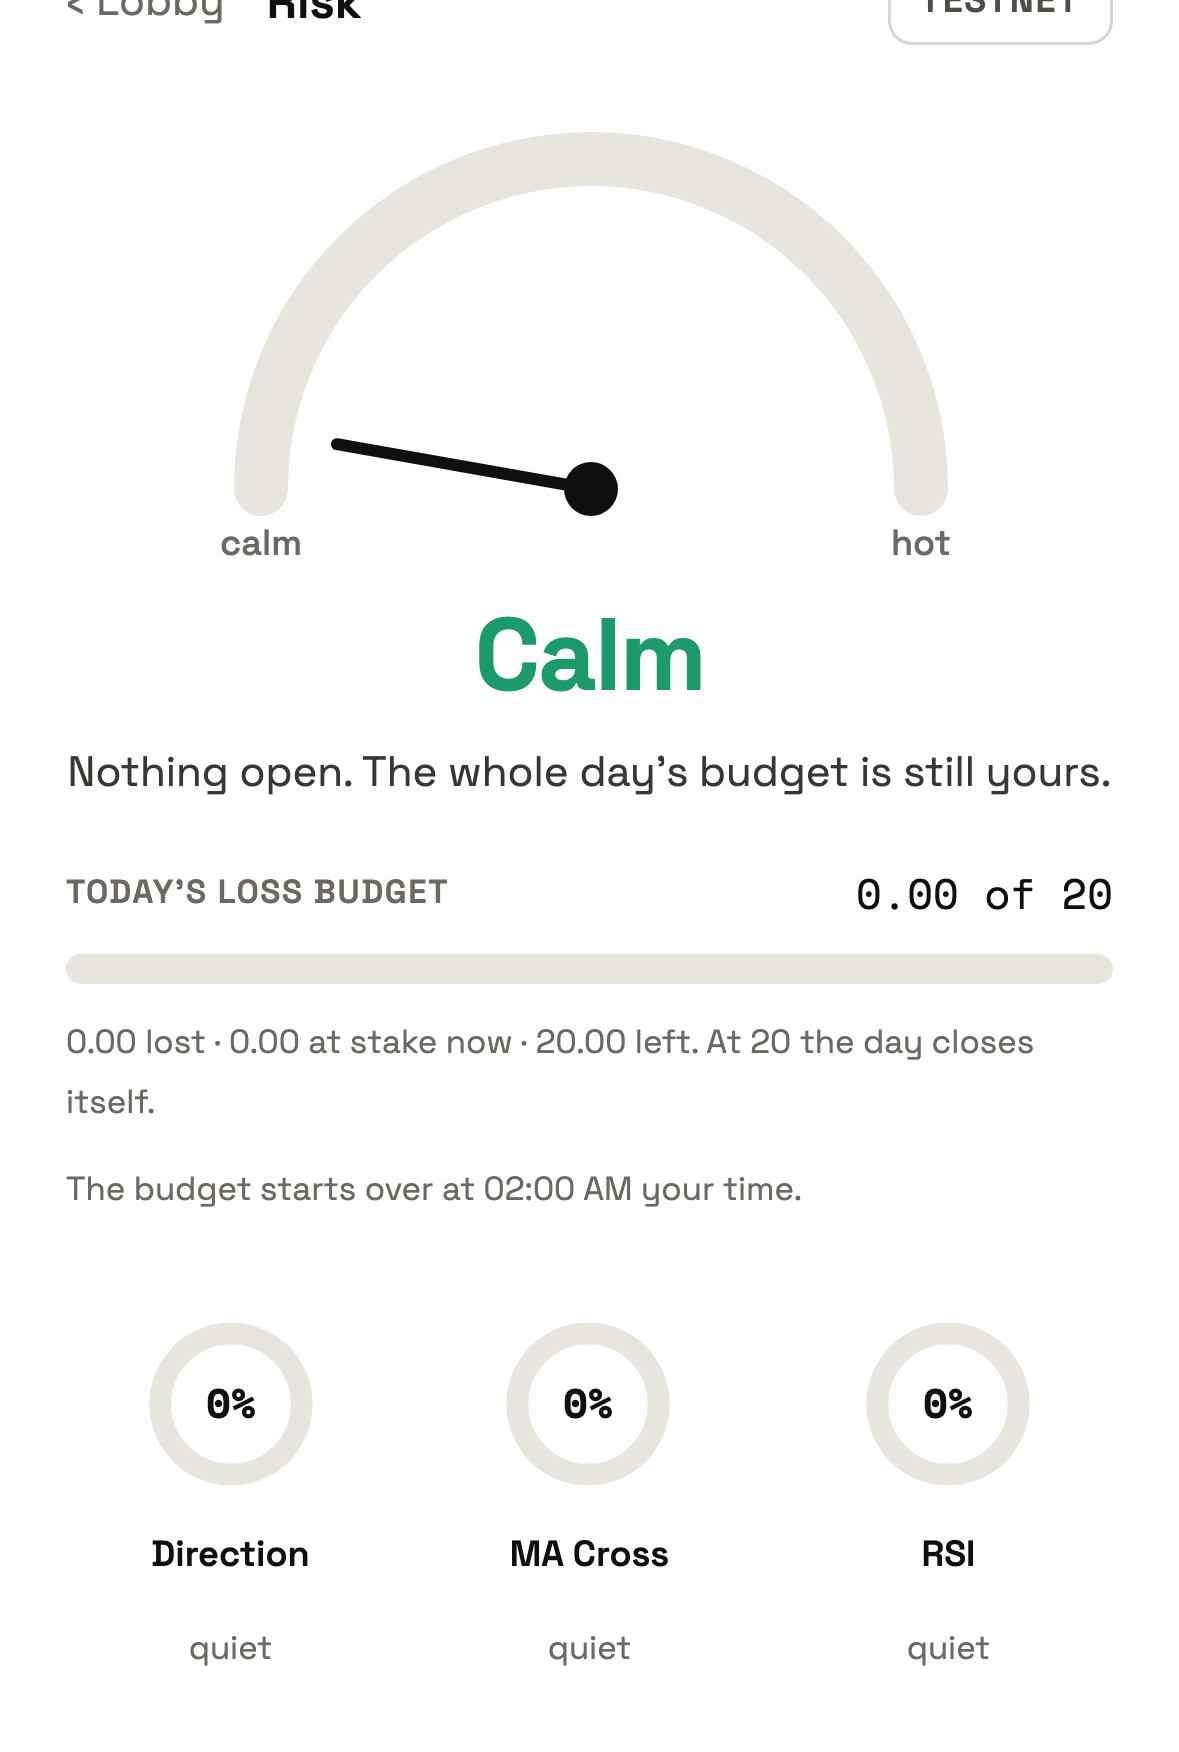
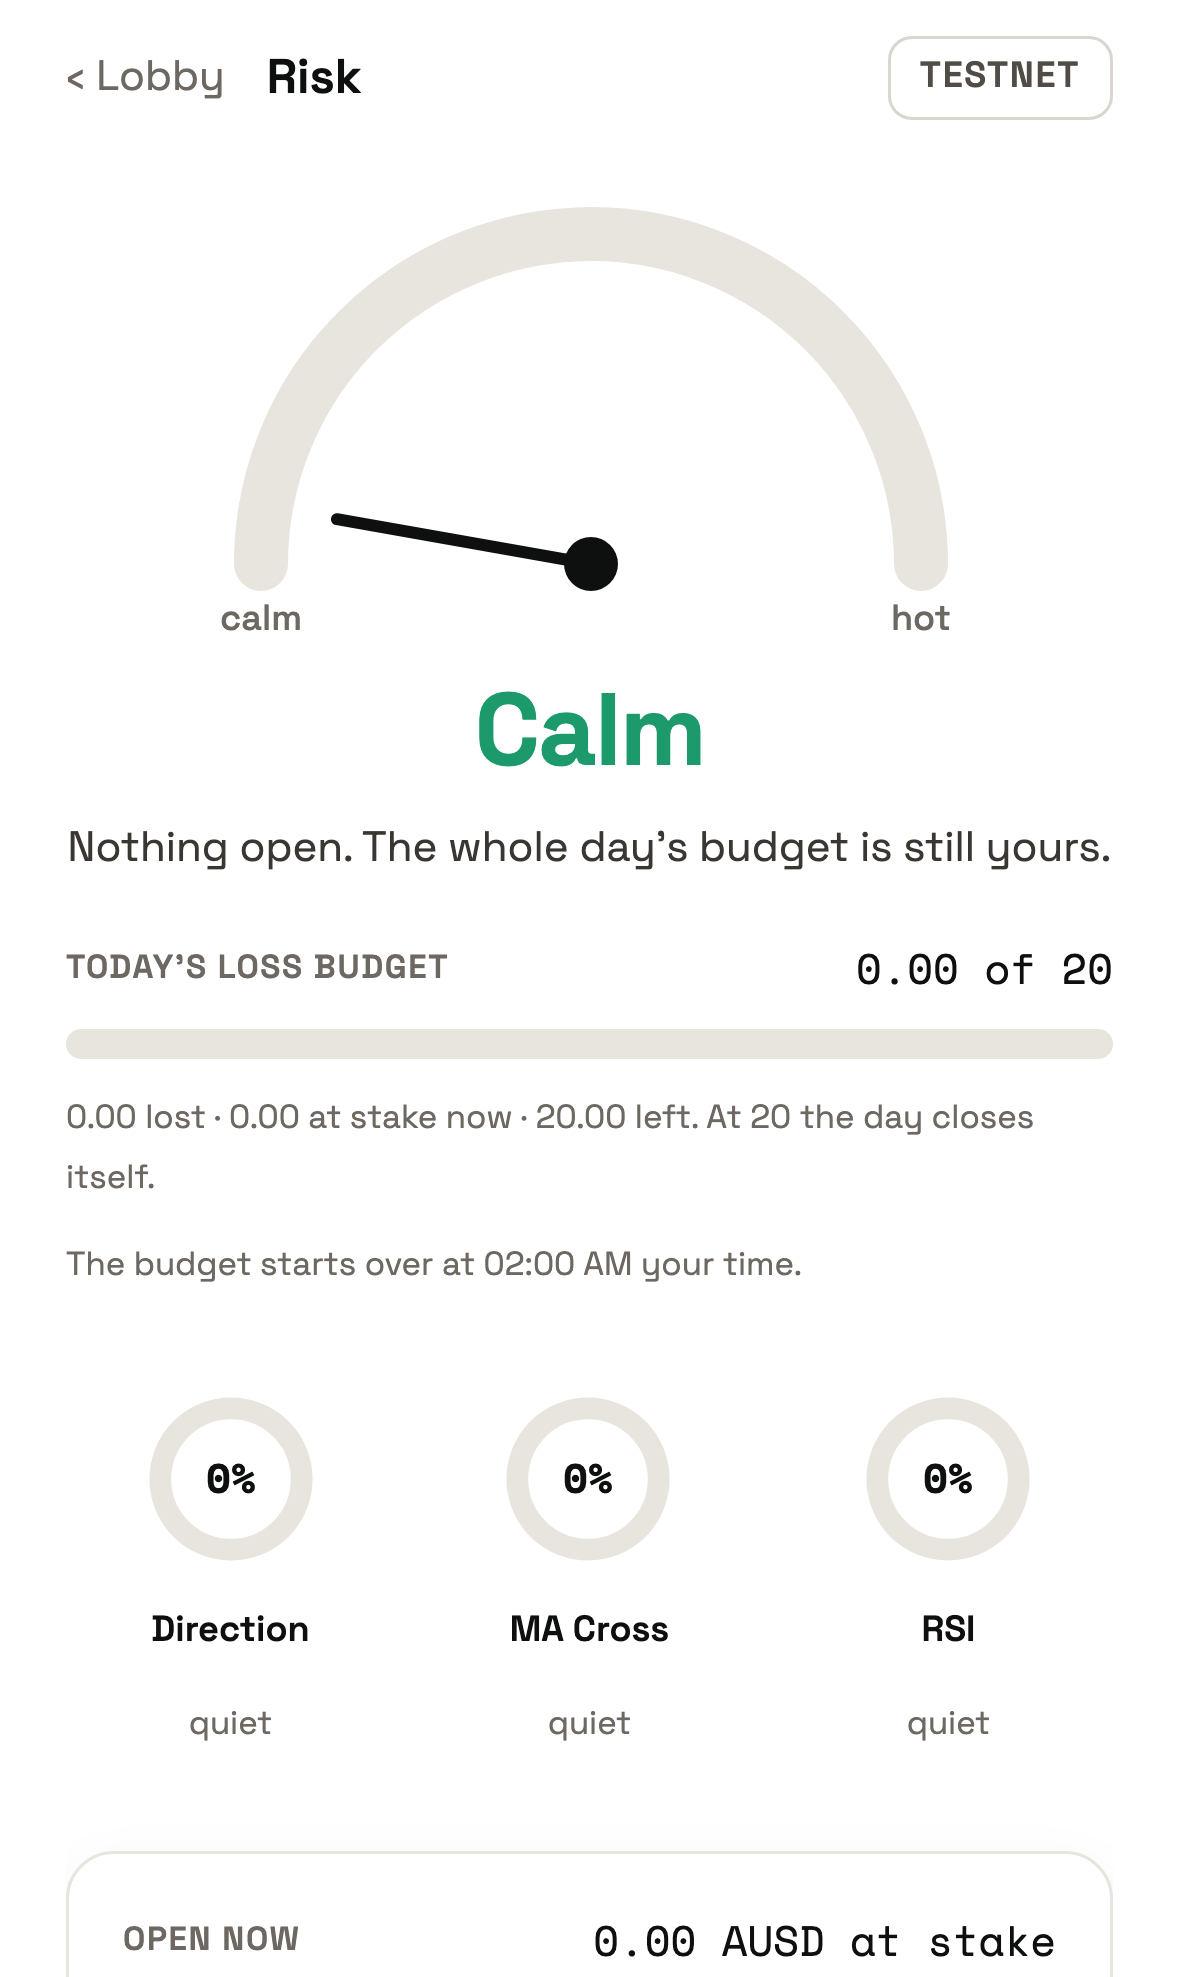
The shots go back uncropped: the app reaches the edges of the screen, so there was nothing to trim

diff --git a/apps/mobile/src/app/judges.tsx b/apps/mobile/src/app/judges.tsx
@@ -24,8 +24,11 @@ import { useTheme } from '@/theme';
 
 const POOL = '0x1cC7f88b21E0158e70323aad98Dea4dC20b380aC';
 
-/** The shots' own proportions, so the frame holds them without letterboxing. */
-const SHOT_RATIO = 1179 / 1752;
+/** The shots' own proportions, so the frame holds them without letterboxing.
+ *  Cropping them instead was tried and reverted: the app fills the screen to
+ *  its edges, so a fixed crop takes the header off the top and the navigation
+ *  off the bottom. The empty bands were the frame's, not the pictures'. */
+const SHOT_RATIO = 1179 / 1977;
 const SHOT_H = 340;
 
 type Step = {
